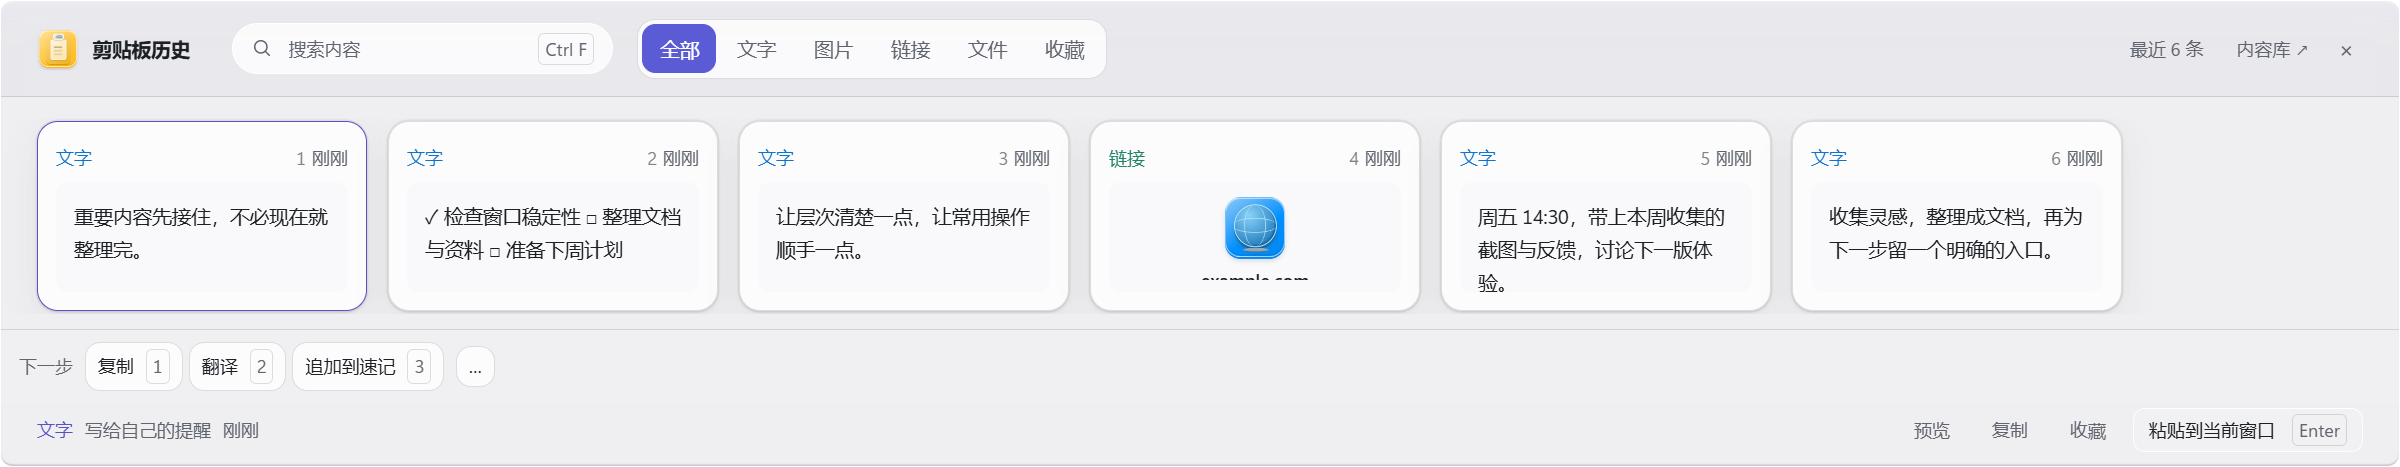
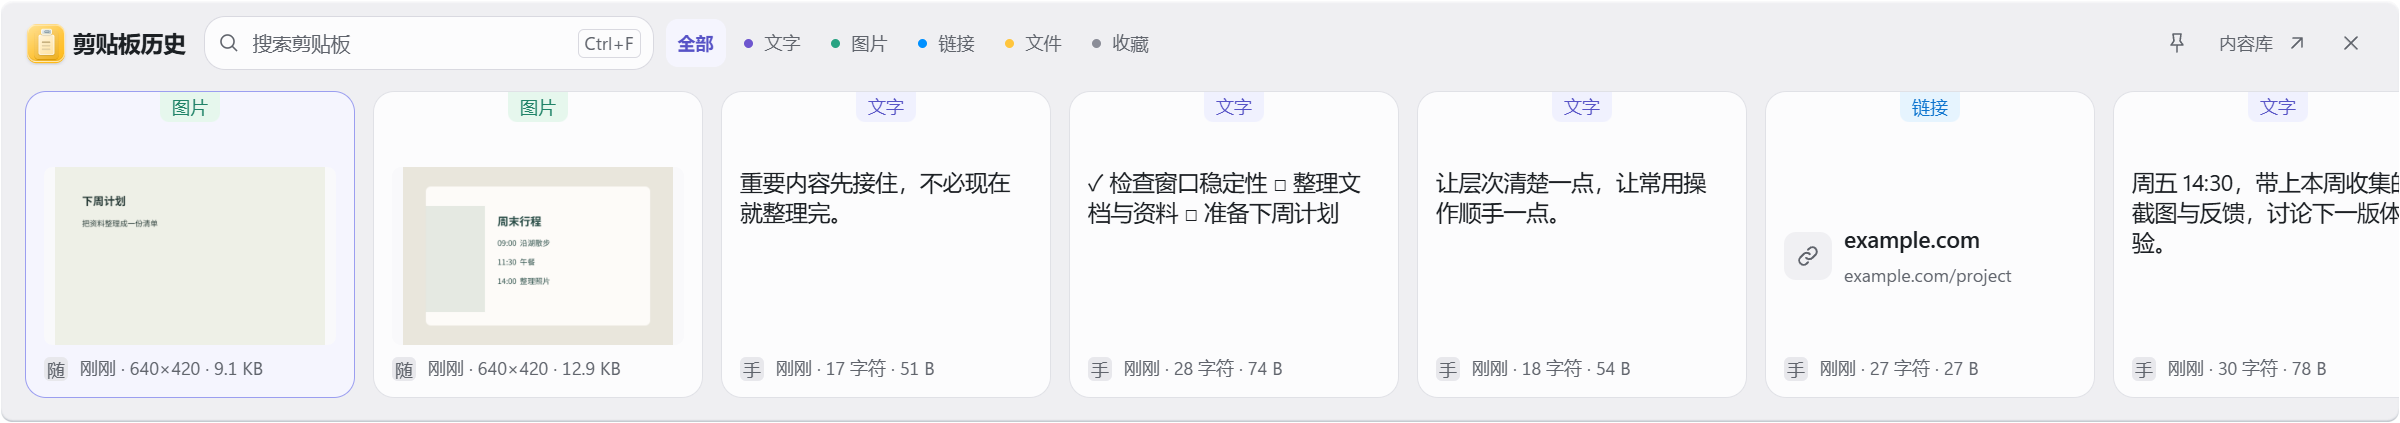
Sync public documentation and screenshots for Suira 0.2.56

diff --git a/README.md b/README.md
@@ -3,7 +3,7 @@
   <h1>随序 SUIRA</h1>
   <p><strong>顺手接住，让工作继续。</strong></p>
   <p>一个快捷键，接住桌面上的截图、文字与灵感。<br>从收集、整理到下一步，让常用工具自然衔接。</p>
-  <p>Windows 11 x64 · 本地优先 · 当前版本 0.2.48</p>
+  <p>Windows 11 x64 · 本地优先 · 当前版本 0.2.56</p>
   <p><a href="https://github.com/huihui200739/suira-updates/releases/latest">下载最新版本</a> · <a href="#开始使用">开始使用</a> · <a href="CHANGELOG.md">版本更新</a> · <a href="https://github.com/huihui200739/suira-updates/issues">反馈问题</a></p>
 </div>
 
@@ -54,22 +54,22 @@
 
 <img src="docs/product/trace.png" alt="按内容归组的处理轨迹，展开翻译步骤查看原文、错误与恢复入口" width="100%">
 
-**写下来，再接着做。** Markdown 提供可折叠目录、各编辑模式通用的斜杠插入、格式操作、右键菜单及实时预览。速记自动保存，在真实背景玻璃上随手记录；日历集中显示农历、待办与重要日期。
+**写下来，再接着做。** Markdown 提供可折叠目录、各编辑模式通用的斜杠插入、格式操作、右键菜单及实时预览。速记自动保存，白色写作面收在圆角窗口内；剪贴板历史使用与悬浮板一致的半透明玻璃背景，点卡片就能粘贴，点右上角的图钉可保持窗口置顶。日历集中显示农历、待办与重要日期。
 
 <table>
-  <tr><td width="50%"><img src="docs/product/markdown.png" alt="Markdown 编辑与分栏预览"></td><td width="50%"><img src="docs/product/calendar.png" alt="日历月视图与待办"></td></tr>
+  <tr><td width="50%"><img src="docs/product/markdown.png" alt="Markdown 三栏编辑界面"></td><td width="50%"><img src="docs/product/calendar.png" alt="日历月视图与待办"></td></tr>
   <tr><td align="center"><b>文档，专注内容</b></td><td align="center"><b>日程，安排清楚</b></td></tr>
-  <tr><td><img src="docs/product/notes.png" alt="速记：透出实时背景的玻璃窗口"></td><td><img src="docs/product/toolbox.png" alt="彩色工具图标与统一玻璃工具箱"></td></tr>
+  <tr><td><img src="docs/product/notes.png" alt="速记：白色写作面与圆角透明边缘"></td><td><img src="docs/product/toolbox.png" alt="彩色工具图标与统一玻璃工具箱"></td></tr>
   <tr><td align="center"><b>速记，先接住想法</b></td><td align="center"><b>工具，随手可用</b></td></tr>
 </table>
 
 <img src="docs/product/clipboard.png" alt="剪贴板历史：类型筛选、内容预览与复制粘贴" width="100%">
 
-> 展示图来自当前版本的真实 Electron 页面，文档、日程和剪贴板均为独立演示数据。面板与速记的玻璃图使用受控测试背景，展示 Windows 原生实时模糊；没有嵌入静态壁纸。[截图说明](docs/product/README.md)
+> 展示图采集自真实 Electron 页面，文档、日程和剪贴板均为独立演示数据。随手面板的玻璃图使用受控测试背景，展示 Windows 原生实时模糊；没有嵌入静态壁纸。速记图展示白色写作面和透明圆角。[截图说明](docs/product/README.md)
 
 ## 开始使用
 
-支持 **Windows 11 x64**，当前正式版 **0.2.48**。从 [最新版本](https://github.com/huihui200739/suira-updates/releases/latest) 下载 `Suira-0.2.48-x64.exe` 并安装；已有安装版可在悬浮板三点菜单选择 **检查更新 → 下载更新 → 保存草稿并重启更新**。覆盖更新保留本机内容、键位和设置。
+支持 **Windows 11 x64**，当前正式版 **0.2.56**。从 [最新版本](https://github.com/huihui200739/suira-updates/releases/latest) 下载 `Suira-0.2.56-x64.exe` 并安装。已有更新入口的安装版可在悬浮板三点菜单选择 **检查更新 → 下载更新 → 保存草稿并重启更新**，无需登录 GitHub。覆盖更新保留本机内容、键位和设置。
 
 从托盘双击打开面板。全局快捷键默认关闭，可在设置中主动开启并调整冲突键位。
 

diff --git a/CHANGELOG.md b/CHANGELOG.md
@@ -1,5 +1,48 @@
 # 更新记录
 
+## 0.2.56 · 2026-11-22
+
+- 单击剪贴板历史卡片即可粘贴，选择圆圈仍可用于多选和批量分享图片。
+- 剪贴板窗口可以置顶，玻璃背景统一，移除菜单中重复的钉图入口。
+- 全屏随手面板会按屏幕大小调整键位，确保全部按键可见。
+
+## 0.2.55 · 2026-11-21
+
+- 剪贴板历史窗口恢复圆角并使用与悬浮板一致的半透明玻璃背景，速记窗口也恢复圆角。
+
+## 0.2.54 · 2026-11-20
+
+- 速记新增文本格式工具栏，支持标题、正文、常用样式、清单、附件与记账，输入内容随编辑自动保存。
+- 剪贴板支持多图分享，Markdown 文档可删除，写作界面调整为白色。
+
+## 0.2.53 · 2026-11-20
+
+- 剪贴板卡片悬停时显示选择圆圈和操作。图片、文本和链接各有适合的操作，链接可直接打开。
+- 选中多张图片后，可在剪贴板右上角一次分享原图。
+
+## 0.2.52 · 2026-11-20
+
+- 重做剪贴板历史的列表、操作栏和浅深主题。单击选中，双击或按 Enter 粘贴到原窗口。
+- 刷新历史时保留仍存在的选中项和滚动位置，已展开的操作菜单不会被无关刷新打断。
+- 同步妙言 Windows 版的 Markdown 预览逻辑，统一部分工作台和工具窗口的样式。
+
+## 0.2.51 · 2026-11-20
+
+- 随序和妙言 Windows 移植版共用 Markdown 三栏界面。左侧显示文档范围和已打开文件所在目录，中间搜索和切换文档，右侧集中写作和预览。
+- 标题与正文左对齐。格式工具按需展开，支持目录、分栏预览和专注模式。
+
+## 0.2.50 · 2026-11-20
+
+- 语音快捷键按下即开始录音，屏幕底部只显示小波形。说完停顿约两秒，或再按一次快捷键，即可识别并输入原输入框。目标失效时保留在剪贴板。
+- Markdown 编辑器接入独立的妙言 Windows 移植仓库。共享列表、引用续写、缩进、任务标记和源码高亮。源码视图新增下划线标题与引用式链接的高亮。
+
+## 0.2.49 · 2026-11-20
+
+- 修复语音输入绑定 Alt+H 后仍触发钉图的问题。该键位交给语音输入时，原占用者钉图显隐移至 Alt+F8。浮板搜索框聚焦时也能响应已绑定的 Alt+H。
+- 语音输入有独立设置页。翻译操作回到翻译卡片，修复缩放或窄窗口导致的模型选择、按钮和说明重叠。
+- 参考妙言的编辑布局和源码高亮。打开文档后左侧仍可搜索并切换文档，目录可单独展开，源码为连续纸面，标题、链接、引用、列表和代码可直接区分。
+- 修复 Markdown 源码滚动时斜杠菜单意外消失的问题。
+
 ## 0.2.48 · 2026-11-20
 
 - 移植妙言的括号配对、列表续写和缩进编辑行为，附带上游 MIT 许可证。
@@ -11,6 +54,7 @@
 - 修复语音窗口打不开和麦克风录音权限检查。在「设置 → 快捷键」可修改或清除语音快捷键，悬浮板同步更新。录音窗口支持空格开始或停止，`Ctrl+Enter` 粘贴，`Esc` 取消识别。
 - 取消区域截图后让未完成的采集失效，避免旧结果迟到时重新弹出截图窗口。
 - 复用翻译服务地址时自动识别聊天接口路径，避免把语音路由拼在 `chat/completions` 后面。中转站需提供实际的音频转写接口。
+
 ## 0.2.46 · 2026-11-15
 
 - 工具箱新增语音输入：录音后转成可编辑文字，可复制或粘贴回原窗口；单次录音最长 120 秒，音频仅在内存中处理，停止后发送到设置的 ASR 服务。

diff --git a/docs/product/README.md b/docs/product/README.md
@@ -1,6 +1,6 @@
-# 当前产品界面 · 0.2.43
+# 产品界面 · 正式版 0.2.56
 
-本轮更新取色预览、任务按钮与最近内容入口的展示图。最近内容默认收在顶栏，点击后展开，键盘区不再受卡片挤压。图片来自当前源码启动的真实 Electron 页面，使用独立的临时资料、虚构文档、日程与剪贴板，不读取用户正文或剪贴板，不注册系统快捷键。
+本轮更新剪贴板、速记和 Markdown 的展示图。图片来自真实 Electron 页面，使用独立的临时资料、虚构文档、日程与剪贴板，不读取用户正文或剪贴板，不注册系统快捷键。
 
 | 页面 | 截图 |
 | --- | --- |
@@ -14,13 +14,13 @@
 | 文字工具 | [翻译与文本转换合并窗口](text-tools.png) |
 | 任务匣 | [任务索引与内容整理](workbench.png) |
 | 工作台侧边栏（0.2.44） | [展开导航](sidebar-expanded.png) · [收起为图标栏](sidebar-collapsed.png) |
-| Markdown | [文档编辑与分栏预览](markdown.png) |
+| Markdown | [三栏文档编辑](markdown.png) |
 | 日历 | [月视图、农历与重要日期](calendar.png) |
-| 速记 | [实时背景玻璃](notes.png) |
+| 速记 | [白色写作面与圆角外框](notes.png) |
 | 工具箱 | [工具图标与统一控件](toolbox.png) |
-| 剪贴板 | [筛选、预览与复制粘贴](clipboard.png) |
+| 剪贴板 | [浅色](clipboard.png) · [深色](clipboard-dark.png) |
 
-面板和速记图由 Windows 原生合成器与受控背景窗口一起采集。受控背景只用于演示及验证，不包含在应用中；实际使用会模糊窗口后方的本机真实内容。其余图片捕获 Electron 页面，展示排版、图标和操作，不包含桌面合成层。
+面板图由 Windows 原生合成器与受控背景窗口一起采集。受控背景只用于演示及验证，不包含在应用中；实际使用会模糊窗口后方的本机真实内容。速记保留白色写作面，圆角外沿透出透明窗口底色。其余图片捕获 Electron 页面，展示排版、图标和操作。剪贴板示例展示统一玻璃背景、置顶入口、卡片大小和链接预览。
 
 玻璃在减少透明度、高对比度或不支持原生合成的系统上使用稳定底色。应用列表的名称与图标来自 Windows 开始菜单；文档、日程和文字均为虚构演示数据。
 
@@ -28,4 +28,4 @@
 
 文字工具的展示使用固定中英文样例与测试翻译响应；实际翻译使用用户自行配置的服务。
 
-最近内容与划词图使用固定英文与隔离剪贴板／前台窗口模拟，捕获 Electron 页面，不包含桌面合成层；实机验收范围见 selection-manual-0.2.38.json。
+最近内容与划词图使用固定英文与隔离剪贴板／前台窗口模拟，捕获 Electron 页面，不包含桌面合成层。
